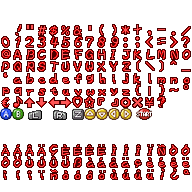
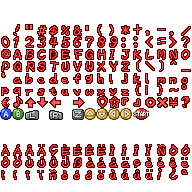
VWF Support

diff --git a/lib/TextRenderer.php b/lib/TextRenderer.php
@@ -6,13 +6,10 @@ function RenderText($Text, $WidthPixels = 1048576) {
 	$CharacterSheets = array(Image::LoadPNG("./gfx/fonts/defaultf.png"), Image::LoadPNG("./gfx/fonts/tempredf.png"), 
 							 Image::LoadPNG("./gfx/fonts/large.png"));
 
-	$DippedCharacters = array(44, 95, 103, 106, 112, 113); //ASCII values for the characters that 'dip' down slightly.
-	$TwoCharCharacters = array("\x92\x93", "\x94\x95", "\x9B\x9C"); //ASCII character pairs for the L/R/Start N64 buttons
-	$PreWrapCharacters = array("\x92", "\x94", "\x9B"); //ASCII characters which wrap if another character cannot fit on the same line after them
-	$SheetCodes = array("\x01", "\x02", "\x03");
+	$CharacterWidths = array(loadvwfdata("./gfx/fonts/defaultfw.txt"), loadvwfdata("./gfx/fonts/defaultfw.txt"), loadvwfdata("./gfx/fonts/defaultfw.txt"));
 
-	$Text = str_replace($TwoCharCharacters, $PreWrapCharacters, $Text);
-	$Text = str_replace($PreWrapCharacters, $TwoCharCharacters, $Text);
+	$DippedCharacters = array(44, 95, 103, 106, 112, 113); //ASCII values for the characters that 'dip' down slightly.
+	$SheetCodes = array("\x01", "\x02", "\x03");
 
 	$Sheet = $CharacterSheets[0];
 
@@ -42,45 +39,60 @@ function RenderText($Text, $WidthPixels = 1048576) {
 
 	$Words = explode(" ", $Text);
 
+	$DrawY = $DrawX = 0;
+
 	for ($WordIndex = 0; $WordIndex < count($Words); $WordIndex++) {
 		$Word = $Words[$WordIndex];
+
+		$WordWidth = 0;
+
+		for ($StringIndex = 0; $StringIndex < strlen($Word); $StringIndex++) {
+			$WordWidth += $CharacterWidths[$CurrentSheet][ord($Word{$StringIndex})];
+		}
+
+		if ($DrawX + $WordWidth >= $WidthPixels) {
+			$DrawY += $SheetSize[1];
+			$DrawX = 0;
+		}
 
 		if (($DrawIndex % $CharsPerLine) + strlen($Word) > $CharsPerLine) {
 			$DrawIndex = ceil($DrawIndex / $CharsPerLine) * $CharsPerLine;
 		}
 
 		for ($StringIndex = 0; $StringIndex < strlen($Word); $StringIndex++) {
-			if (($DrawIndex + 1) % $CharsPerLine == 0 && in_array($Word{$StringIndex}, $PreWrapCharacters))
-				$DrawIndex++;
 	
 			if (in_array($Word{$StringIndex}, $SheetCodes)) {
 				$CurrentSheet = ord($Word{$StringIndex}) - ord($SheetCodes[0]);
 				continue;
 			}
 	
-			if (ord($Word{$StringIndex}) == 10) {
-				$DrawIndex = ceil($DrawIndex / $CharsPerLine) * $CharsPerLine;
+			if (ord($Word{$StringIndex}) == 10 || $DrawX >= $WidthPixels) {
+				$DrawX = 0;
+				$DrawY += $SheetSize[1];
 				continue;
-			}
-	
-			$DrawX = ($DrawIndex % $CharsPerLine) * $SheetSize[0];
-			$DrawY = floor($DrawIndex / $CharsPerLine) * $SheetSize[1];
-	
+			}	
+
+			$UseDrawY = $DrawY;
+
 			if (in_array(ord($Word{$StringIndex}), $DippedCharacters)) {
-				$DrawY += 2;
+				$UseDrawY += 2;
 			}
 	
-			if ($DrawY + $SheetSize[1] + 2 >= $ImageHeight) {
-				$ImageHeight = $DrawY + $SheetSize[1] + 2;
+			if ($UseDrawY + $SheetSize[1] + 2 >= $ImageHeight) {
+				$ImageHeight = $UseDrawY + $SheetSize[1] + 2;
 				$Image->ResizeCanvas($ImageWidth, $ImageHeight);
 			}
 	
-			CharacterCodeTo($Image, $CharacterSheets[$CurrentSheet], ord($Word{$StringIndex}), $DrawX, $DrawY);
-	
+			CharacterCodeTo($Image, $CharacterSheets[$CurrentSheet], ord($Word{$StringIndex}), $DrawX, $UseDrawY, $CharacterWidths[$CurrentSheet][ord($Word{$StringIndex})]);
+			
+			$DrawX += $CharacterWidths[$CurrentSheet][ord($Word{$StringIndex})];
+
 			$DrawIndex++;
 		}
 		if (($DrawIndex % $CharsPerLine) != 0)
 			$DrawIndex++;
+
+		if ($DrawX > 0) $DrawX += $CharacterWidths[$CurrentSheet][0x20]; //Add Space
 	}
 
 	if ((ceil($DrawIndex / $CharsPerLine) * $SheetSize[1]) + 2 < $ImageHeight) {
@@ -90,7 +102,7 @@ function RenderText($Text, $WidthPixels = 1048576) {
 	return $Image;
 }
 
-function CharacterCodeTo($TargetImage, $Sheet, $ASCII, $DestX, $DestY) {
+function CharacterCodeTo($TargetImage, $Sheet, $ASCII, $DestX, $DestY, $CharWidth) {
 	$SheetSize = $Sheet->Size;
 
 	$UseSize = array($SheetSize[0] / 16, $SheetSize[1] / 16);
@@ -98,7 +110,15 @@ function CharacterCodeTo($TargetImage, $Sheet, $ASCII, $DestX, $DestY) {
 	$SourceX = ($ASCII % 16) * ($UseSize[0]);
 	$SourceY = floor($ASCII / 16) * ($UseSize[1]);
 
-	imagecopy($TargetImage->Image, $Sheet->Image, $DestX, $DestY, $SourceX, $SourceY, $UseSize[0], $UseSize[1]);
+	imagecopy($TargetImage->Image, $Sheet->Image, $DestX, $DestY, $SourceX, $SourceY, $CharWidth, $UseSize[1]);
+}
+
+function loadvwfdata($Filename) {
+	$Data = array();
+	$Str = file_get_contents($Filename);
+	for ($x = 0; $x < strlen($Str); $x++)
+		$Data[$x] = ord($Str{$x}) - ord("A");
+	return $Data;
 }
 
 ?>
